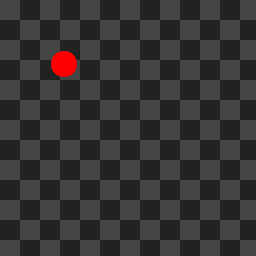
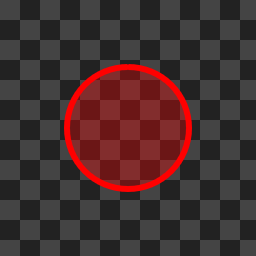
Make better shape examples

Changed region(s): [[0.25, 0.25, 0.75, 0.75], [0.1875, 0.1875, 0.3125, 0.3125]]

diff --git a/src/examples/enesim_renderer_circle01.c b/src/examples/enesim_renderer_circle01.c
@@ -8,17 +8,19 @@
 static Enesim_Renderer * enesim_renderer_circle01(void)
 {
 	Enesim_Renderer *r;
-	Enesim_Matrix m;
 
 	r = enesim_renderer_circle_new();
-	enesim_renderer_circle_center_set(r, 0.5, 0.5);
-	enesim_renderer_circle_radius_set(r, 0.1);
+	/* TODO we have a bug on the rasterizer election. If the stroke weight
+	 * is <= 1 but we have a transformation, the simple rasterizer should
+	 * not be used
+	 */
+	enesim_renderer_circle_center_set(r, 128, 128);
+	enesim_renderer_circle_radius_set(r, 64);
 
-	enesim_renderer_shape_fill_color_set(r, 0xffff0000);
-	enesim_renderer_shape_draw_mode_set(r, ENESIM_RENDERER_SHAPE_DRAW_MODE_FILL);
-
-	enesim_matrix_scale(&m, 128, 128);
-	enesim_renderer_transformation_set(r, &m);
+	enesim_renderer_shape_stroke_color_set(r, 0xffff0000);
+	enesim_renderer_shape_stroke_weight_set(r, 5);
+	enesim_renderer_shape_fill_color_set(r, 0x55550000);
+	enesim_renderer_shape_draw_mode_set(r, ENESIM_RENDERER_SHAPE_DRAW_MODE_STROKE_FILL);
 
 	return r;
 }

diff --git a/src/examples/enesim_renderer_rectangle01.c b/src/examples/enesim_renderer_rectangle01.c
@@ -10,14 +10,14 @@ static Enesim_Renderer * enesim_renderer_rectangle01(void)
 	Enesim_Renderer *r;
 
 	r = enesim_renderer_rectangle_new();
-	enesim_renderer_rectangle_position_set(r, 30, 30);
-	enesim_renderer_rectangle_size_set(r, 120, 120);
+	enesim_renderer_rectangle_position_set(r, 30, 60);
+	enesim_renderer_rectangle_size_set(r, 196, 136);
 	enesim_renderer_rectangle_corner_radii_set(r, 15, 15);
 	enesim_renderer_rectangle_corners_set(r, EINA_TRUE, EINA_TRUE, EINA_TRUE, EINA_TRUE);
 
-	enesim_renderer_shape_stroke_weight_set(r, 18);
-	enesim_renderer_shape_stroke_color_set(r, 0xffffff00);
-	enesim_renderer_shape_fill_color_set(r, 0xffff0000);
+	enesim_renderer_shape_stroke_color_set(r, 0xffff0000);
+	enesim_renderer_shape_stroke_weight_set(r, 5);
+	enesim_renderer_shape_fill_color_set(r, 0x55550000);
 	enesim_renderer_shape_draw_mode_set(r, ENESIM_RENDERER_SHAPE_DRAW_MODE_STROKE_FILL);
 	return r;
 }
